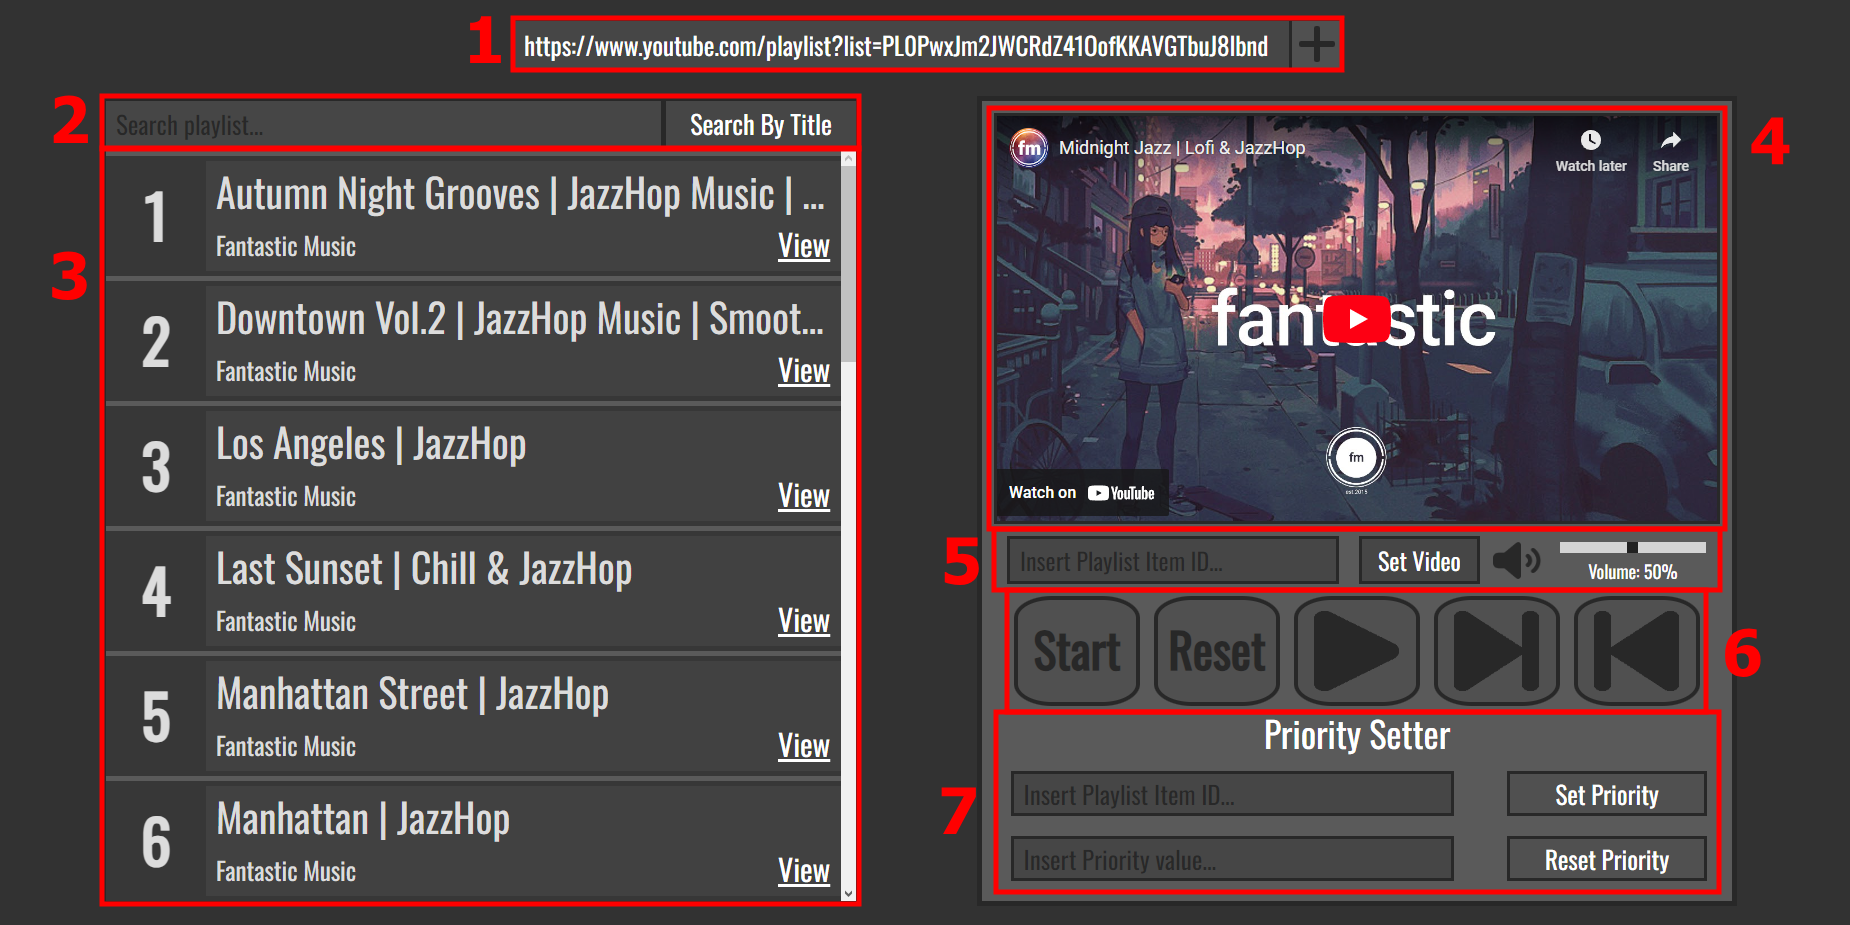
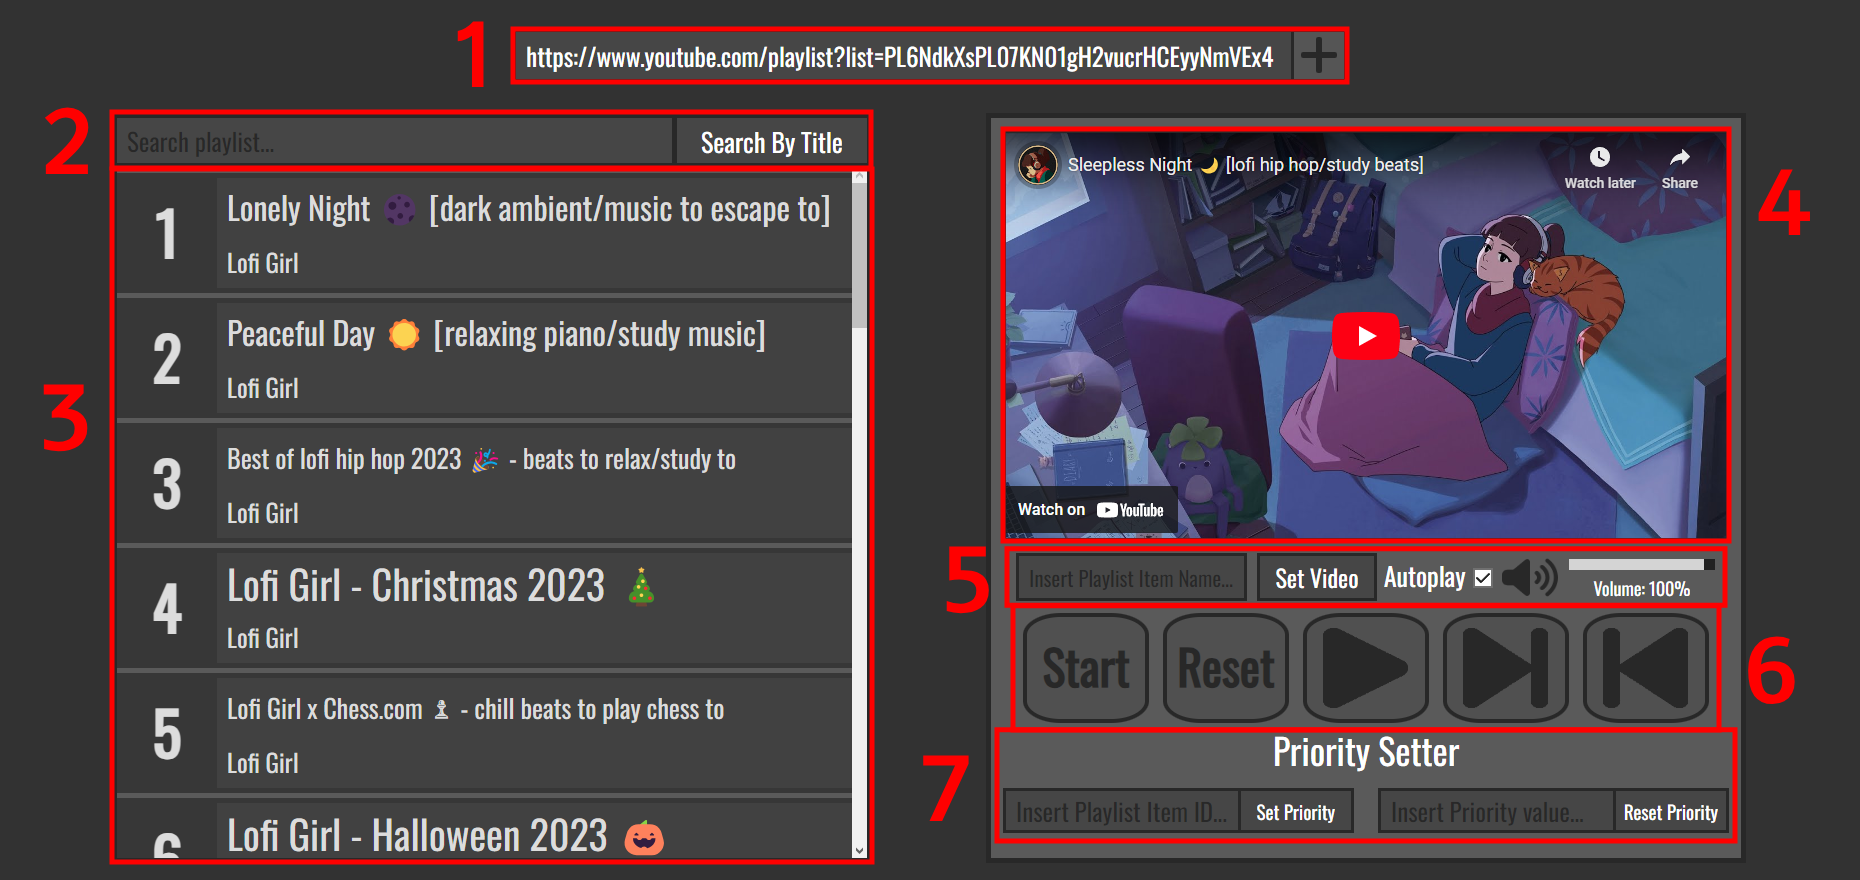
minor update 6
Removed View links from playlist items, compressed the Priority Setter to take less space, and changed the set video bar to now require (part of) the playlist item name rather than the ID

diff --git a/src/components/ControlPanel/ControlPanel.js b/src/components/ControlPanel/ControlPanel.js
@@ -23,24 +23,30 @@ const ControlPanel = forwardRef((props, ref) => {
     const [muteButtonTitle, setMuteButtonTitle] = useState("Mute");
 
     function changeVideo() {
+
+        let filteredList = []
+        for (let i = 0; i < props.playlistData.length; i++) {
+            if (props.playlistData[i].title.toLowerCase().includes(videoSelection)) {
+                filteredList.push(props.playlistData[i]);
+            }
+        }
+
         if (isPlaylistReady === true && isPlaylistActive === true) {
             if (videoSelection) { // Check 1: if videoSelection exists
-                if (videoSelection > 0) { // Check 2: if videoSelection is a positive number
-                    if (videoSelection <= props.playlistData.length) { // Check 3: if videoSelection is within the bounds of the playlist
-                        setVideoPlaying(false);
-                        setPrevVideo(currentVideo);
-                        setCurrentVideo(props.playlistData[videoSelection - 1].url.slice(0, 43));
-                    }
-                    else {
-                        alert('Playlist Item ID not found.')
-                    }
+                if (filteredList.length === 1) { // Check 2: if filteredList has one item
+                    setVideoPlaying(false);
+                    setPrevVideo(currentVideo);
+                    setCurrentVideo(filteredList[0].url.slice(0, 43));
+                }
+                else if (filteredList.length > 1) {
+                    alert(`Invalid: ${filteredList.length} results found for '${videoSelection}'.`);
                 }
                 else {
-                    alert('Please input a positive number for the ID.')
+                    alert(`Invalid: No results found for '${videoSelection}'.`);
                 }
             }
             else {
-                alert('No Playlist Item ID selected.');
+                alert('No Playlist Item selected.');
             }    
         }
         
@@ -265,7 +271,7 @@ const ControlPanel = forwardRef((props, ref) => {
 
     function handleKeybindPress(event) {
         event.preventDefault();
-        if (event.key === ' ') {
+        if (event.key === ' ' && event.shiftKey === true) {
             handlePauseAndPlay();
         }
         if (event.key === 'ArrowRight' && event.shiftKey === true) {
@@ -343,7 +349,7 @@ const ControlPanel = forwardRef((props, ref) => {
             </div>
             <div className='video-controls-container'>
                 <div className='set-video-container'>
-                    <input className='set-video-bar' name='set-video-bar' placeholder='Insert Playlist Item ID...' onChange={(event) => setVideoSelection(event.target.value)}/>
+                    <input className='set-video-bar' name='set-video-bar' placeholder='Insert Playlist Item Name...' onChange={(event) => setVideoSelection(event.target.value)}/>
                     <button className={setVideoStyle} onClick={changeVideo}>Set Video</button>
                     <div className='autoplay-button-container'>
                         <div className='autoplay-text-container'>Autoplay</div>

diff --git a/src/components/AboutSection/AboutSection.js b/src/components/AboutSection/AboutSection.js
@@ -21,7 +21,7 @@ const AboutSection = () => {
                     </h2>
                     <h1>Keybinds</h1>
                     <h2>
-                        Space: Pause/Play Video<br/>
+                        Shift + Space: Pause/Play Video<br/>
                         Shift + M: Mute Video<br/>
                         Shift + Left Arrow: Next Video<br/>
                         Shift + Right Arrow: Previous Video
@@ -48,7 +48,7 @@ const AboutSection = () => {
                             <h1>3. Playlist Item List</h1>
                             <h2>
                                 This is where each playlist item is shown.<br/>
-                                It includes the title, channel name, a Playlist Item ID, and a link to the video on YouTube.<br/>
+                                It includes the title, channel name, and a Playlist Item ID<br/>
                                 If the title of a video isn't fully visible, you can hover over it and it will be shown.
                             </h2>
                         </div>
@@ -63,7 +63,7 @@ const AboutSection = () => {
                             <h1>5. Set Video & Set Volume</h1>
                             <h2>
                                 Here is where you can set the video manuually as well as the volume.<br/>
-                                Insert a Playlist Item ID into the Insert Playlist ID bar, and pressing the Set Video button will change the video.<br/>
+                                Insert the name of a playlist item into the Insert Playlist Name bar, and pressing the Set Video button will change the video.<br/>
                                 You can use the Set Video bar to set the video independent of the shuffle.<br/><br/>
                                 The Volume Slider is how you control the volume of the video. Slide it to the left to decrease the volume, or to the right to increase it.<br/>
                                 While you can change the volume in the video player, it will <i>not</i> update the Set Volume bar.

diff --git a/src/components/ControlPanel/ControlPanel.css b/src/components/ControlPanel/ControlPanel.css
@@ -1,6 +1,6 @@
 .control-panel {
     width: 750px;
-    height: 800px;
+    height: 740px;
     background: rgb(90, 90, 90);
     border: 5px solid rgb(40, 40, 40);
     display: grid;
@@ -130,7 +130,9 @@
 }
 
 .set-video-bar::placeholder {
-    font-size: 24px;
+    font-size: 21px;
+    position: absolute;
+    margin-top: 3px;
 }
 
 .set-video-button {
@@ -178,20 +180,20 @@
 .priority-setter-container {
     grid-area: 3 / 1 / 4 / 2;
     display: grid;
-    grid-template-columns: 2fr 1fr;
-    grid-template-rows: 50px 65px 50px;
+    grid-template-columns: 2fr 1fr 2fr 1fr;
+    grid-template-rows: 50px 65px;
 }
 .priority-setter-title-container {
-    grid-area: 1 / 1 / 2 / 3;
+    grid-area: 1 / 1 / 2 / 5;
     padding-top: 10px;
     font-size: 36px;
     text-align: center;
     color: white;
 }
 .id-bar-container { grid-area: 2 / 1 / 3 / 2; }
-.priority-value-bar-container { grid-area: 3 / 1 / 4 / 2; }
 .set-priortiy-button-container { grid-area: 2 / 2 / 3 / 3; }
-.reset-priority-button-container { grid-area: 3 / 2 / 4 / 3; }
+.priority-value-bar-container { grid-area: 2 / 3 / 3 / 4; }
+.reset-priority-button-container { grid-area: 2 / 4 / 3 / 5; }
 
 .id-bar, .value-bar, .set-priority-button, .reset-priority-button {
     color: white;
@@ -204,14 +206,19 @@
 }
 
 .id-bar, .value-bar {
-    width: 85%;
+    width: 88%;
     padding-left: 10px;
     background: rgb(70, 70, 70);
+    margin-right: 0px;
 }
 
 .set-priority-button, .reset-priority-button {
-    width: 80%;
+    width: 90%;
     background: rgb(70, 70, 70);
+    font-size: 19px;
+    height: 45px;
+    margin-left: 0px;
+    border-left: 0px;
 }
 
 .set-priority-button:hover:not(.is-clickable), .reset-priority-button:hover:not(.is-clickable) {

diff --git a/src/components/SearchBar/SearchBar.css b/src/components/SearchBar/SearchBar.css
@@ -1,13 +1,13 @@
 .search-bar {
-    padding-top: 197px;
+    padding-top: 181px;
     width: 808px;
     margin: auto;
     height: 25px;
     display: grid;
     grid-template-columns: 763px 45px;
     grid-template-rows: 45px;
-    margin-top: -15px;
-    margin-bottom: 58px;
+    margin-top: 10px;
+    margin-bottom: 59px;
 }
 
 .search-bar img {
@@ -61,7 +61,7 @@
     position: absolute;
     width: 99.9%;
     min-width: 1700px;
-    min-height: 800px;
+    min-height: 745px;
     margin-left: -8px;
     padding-bottom: 25px;
     display: flex;
@@ -72,22 +72,22 @@
 
 .playlist-container {
     min-width: 750px;
-    min-height: 800px;
+    min-height: 745px;
 }
 
 .controlpanel-container {
     min-width: 750px;
-    min-height: 800px;
+    min-height: 745px;
 }
 
 @media screen and (max-width: 1715px) {
     .content-containers {
         margin: auto;
         min-width: 820px;
-        height: 1715px;
+        height: 1550px;
         flex-wrap: wrap;
         flex-direction: column;
-        margin-top: 10px;
+        margin-top: -10px;
         margin-left: -8px;
     }
 

diff --git a/src/components/Playlist/Playlist.js b/src/components/Playlist/Playlist.js
@@ -59,7 +59,6 @@ const Playlist = forwardRef((props, ref) => {
                         {React.createElement('div', {style: {fontSize: filteredList[i].id >= 999 ? "48px" : "60px"}, className: 'list-number-container', title: `Playlist item ${filteredList[i].id + 1}`}, filteredList[i].id + 1)}
                         <div className='title-container' title={filteredList[i].title} style={fontSizeAdjuster(filteredList[i].title)}>{filteredList[i].title}</div>
                         <div className='channel-container' title={filteredList[i].channel}>{filteredList[i].channel}</div>
-                        <a href={filteredList[i].url} target="_blank" rel="noreferrer" className='link-container' title='View on YouTube'>View</a>
                         </>
                     )
             

diff --git a/src/utils/api/GetPlaylist.js b/src/utils/api/GetPlaylist.js
@@ -69,7 +69,6 @@ const GetPlaylist = (props) => { // API Handler, also converts data into a React
                         {React.createElement('div', {style: {fontSize: i >= 999 ? "48px" : "60px"}, className: 'list-number-container', title: `Playlist item ${i + 1}`}, i + 1)}
                         <div className='title-container' title={listResults[i].title} style={fontSizeAdjuster(listResults[i].title)}>{listResults[i].title}</div>
                         <div className='channel-container' title={listResults[i].channel}>{listResults[i].channel}</div>
-                        <a href={listResults[i].url} target="_blank" rel="noreferrer" className='link-container' title='View on YouTube'>View</a>
                         </>
                     )
             

diff --git a/src/components/AboutSection/AboutSection.css b/src/components/AboutSection/AboutSection.css
@@ -14,7 +14,7 @@ h2 {
 
 .about-section {
     position: absolute;
-    margin-top: 870px;
+    margin-top: 770px;
     width: 99.9%;
     min-width: 808px;
     margin-left: -8px;
@@ -79,7 +79,7 @@ h2 {
 
 @media screen and (max-width: 1715px) {
     .about-section {
-        margin-top: 1740px
+        margin-top: 1550px
     }
 }
 

diff --git a/src/components/Playlist/Playlist.css b/src/components/Playlist/Playlist.css
@@ -36,7 +36,7 @@
 
 .playlist {
     width: 750px;
-    height: 750px;
+    height: 690px;
     background: rgb(90, 90, 90);
     border: 5px solid rgb(40, 40, 40);
     border-top: 0px;
